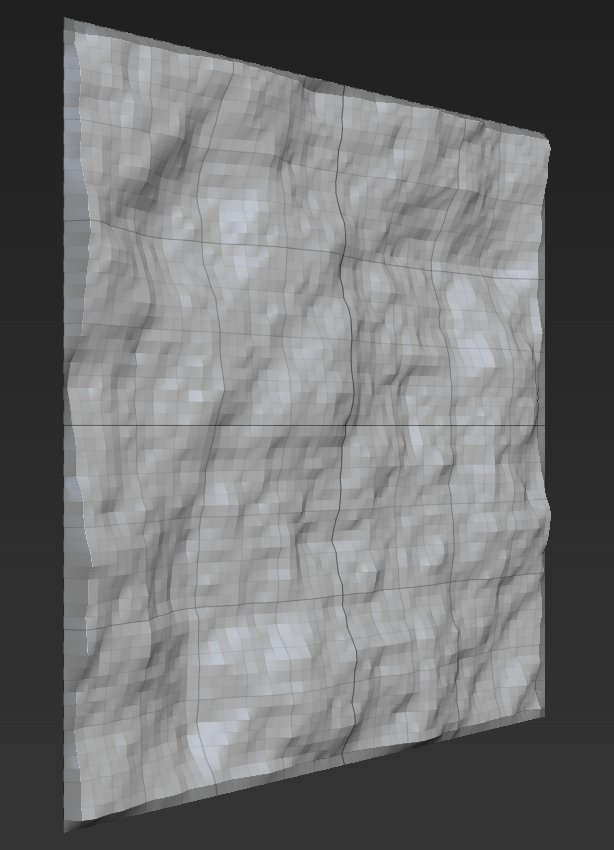
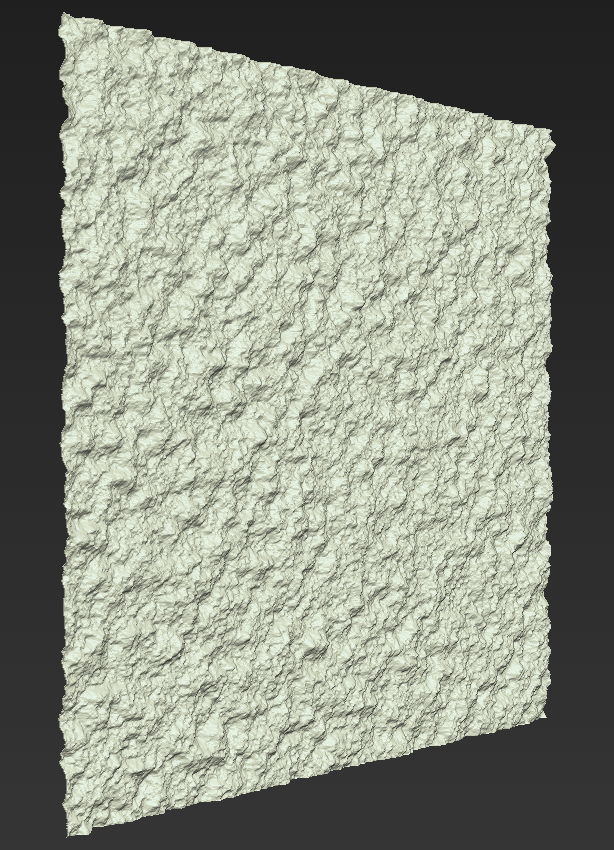
Changed page

diff --git a/05.html b/05.html
@@ -13,12 +13,27 @@
 				<a href="contact.html">Contact</a>
 			</div>
 			<div class="textbox">
-				Lorem ipsum dolor sit amet, consectetur adipisicing elit, sed do eiusmod
-				tempor incididunt ut labore et dolore magna aliqua. Ut enim ad minim veniam,
-				quis nostrud exercitation ullamco laboris nisi ut aliquip ex ea commodo
-				consequat. Duis aute irure dolor in reprehenderit in voluptate velit esse
-				cillum dolore eu fugiat nulla pariatur. Excepteur sint occaecat cupidatat non
-				proident, sunt in culpa qui officia deserunt mollit anim id est laborum.
+				In this project I wanted to learn more about game development and rendering in
+				Unity. I wanted to learn the process of modeling and texturing with software used
+				in the game industry. On top of that I also wanted to gain more experience in
+				building game levels with the features that an advanced game engine can offer.
+			</div>
+			<div class="textbox">
+				The full project was done in a group of 6 people. It represents a virtual reality
+				game called <a href="https://agigroup8.github.io/">Light In The Dark</a> where you
+				need to defend yourself and hold your ground in a dark mysterious mine. It was
+				implemented with C# and Unity. All of the work that I show on this page represents
+				my own independent work.
+			</div>
+			<div class="textbox">
+				First I wanted to explore some of the industry-standard software for modeling and
+				texturing. After searching I decided to explore Maya, ZBrush and Substance 3D
+				Painter. My primary focus was to learn the basics and to understand the workflow.
+				In Maya I learned some of the basic tools for modeling and UV-mapping. In ZBrush I
+				learned to use different brushes combined with masking and subdivision. In
+				Substance 3D Painter I learned to use material channels, noise textures and decal
+				projections. The resulting output from this initial task was not intended to be
+				used in the actual project but rather as a showcase of my learning:
 			</div>
 			<div class="image-layout">
 				<a href="images/05-01.png" style="grid-area: 1 / 1 / 5 /  6;"><img src="images/05-01.png"></a>
@@ -26,25 +41,29 @@
 				<a href="images/05-03.png" style="grid-area: 1 / 9 / 5 / 13;"><img src="images/05-03.png"></a>
 			</div>
 			<div class="textbox">
-				Lorem ipsum dolor sit amet, consectetur adipisicing elit, sed do eiusmod
-				tempor incididunt ut labore et dolore magna aliqua. Ut enim ad minim veniam,
-				quis nostrud exercitation ullamco laboris nisi ut aliquip ex ea commodo
-				consequat. Duis aute irure dolor in reprehenderit in voluptate velit esse
-				cillum dolore eu fugiat nulla pariatur. Excepteur sint occaecat cupidatat non
-				proident, sunt in culpa qui officia deserunt mollit anim id est laborum.
-			</div>
-			<div class="image-layout">
-				<a href="images/05-04.png" style="grid-area: 1 / 1 / 5 /  5;"><img src="images/05-04.png"></a>
-				<a href="images/05-05.png" style="grid-area: 1 / 5 / 5 /  9;"><img src="images/05-05.png"></a>
-				<a href="images/05-06.png" style="grid-area: 1 / 9 / 5 / 13;"><img src="images/05-06.png"></a>
+				My next task was to create the game level which was supposed to represent a dark
+				underground mine.
 			</div>
 			<div class="textbox">
-				Lorem ipsum dolor sit amet, consectetur adipisicing elit, sed do eiusmod
-				tempor incididunt ut labore et dolore magna aliqua. Ut enim ad minim veniam,
-				quis nostrud exercitation ullamco laboris nisi ut aliquip ex ea commodo
-				consequat. Duis aute irure dolor in reprehenderit in voluptate velit esse
-				cillum dolore eu fugiat nulla pariatur. Excepteur sint occaecat cupidatat non
-				proident, sunt in culpa qui officia deserunt mollit anim id est laborum.
+				I needed some game objects that could be placed in the underground environment in
+				order to make it feel more interesting. In addition to that I also wanted some
+				natural way of visualizing the available playing area for the player in virtual
+				reality. Based on that I decided to create a modular mine railway system consisting
+				of a turning platform together with one straight rail segment and one curved rail
+				segment.
+			</div>
+			<div class="textbox">
+				The modeling was done in Maya where I tried to balance the detail level with the
+				polygon count:
+			</div>
+			<div class="image-layout">
+				<a href="images/05-04.png" style="grid-area: 1 / 1 / 9 /  9;"><img src="images/05-04.png"></a>
+				<a href="images/05-05.png" style="grid-area: 1 / 9 / 5 / 13;"><img src="images/05-05.png"></a>
+				<a href="images/05-06.png" style="grid-area: 5 / 9 / 9 / 13;"><img src="images/05-06.png"></a>
+			</div>
+			<div class="textbox">
+				The UV-mapping was done in Maya where I tried to minimize texture distortions and
+				hide seams:
 			</div>
 			<div class="image-layout">
 				<a href="images/05-07.png" style="grid-area: 1 / 1 / 5 /  5;"><img src="images/05-07.png"></a>
@@ -52,88 +71,90 @@
 				<a href="images/05-09.png" style="grid-area: 1 / 9 / 5 / 13;"><img src="images/05-09.png"></a>
 			</div>
 			<div class="textbox">
-				Lorem ipsum dolor sit amet, consectetur adipisicing elit, sed do eiusmod
-				tempor incididunt ut labore et dolore magna aliqua. Ut enim ad minim veniam,
-				quis nostrud exercitation ullamco laboris nisi ut aliquip ex ea commodo
-				consequat. Duis aute irure dolor in reprehenderit in voluptate velit esse
-				cillum dolore eu fugiat nulla pariatur. Excepteur sint occaecat cupidatat non
-				proident, sunt in culpa qui officia deserunt mollit anim id est laborum.
+				The texturing was done in Substance 3D Painter where I tried to add a lot of
+				interesting details:
 			</div>
 			<div class="image-layout">
-				<a href="images/05-10.png" style="grid-area: 1 / 1 / 5 /  5;"><img src="images/05-10.png"></a>
-				<a href="images/05-11.png" style="grid-area: 1 / 5 / 5 /  9;"><img src="images/05-11.png"></a>
-				<a href="images/05-12.png" style="grid-area: 1 / 9 / 5 / 13;"><img src="images/05-12.png"></a>
+				<a href="images/05-10.png" style="grid-area: 1 / 1 / 9 /  9;"><img src="images/05-10.png"></a>
+				<a href="images/05-11.png" style="grid-area: 1 / 9 / 5 / 13;"><img src="images/05-11.png"></a>
+				<a href="images/05-12.png" style="grid-area: 5 / 9 / 9 / 13;"><img src="images/05-12.png"></a>
 			</div>
 			<div class="textbox">
-				Lorem ipsum dolor sit amet, consectetur adipisicing elit, sed do eiusmod
-				tempor incididunt ut labore et dolore magna aliqua. Ut enim ad minim veniam,
-				quis nostrud exercitation ullamco laboris nisi ut aliquip ex ea commodo
-				consequat. Duis aute irure dolor in reprehenderit in voluptate velit esse
-				cillum dolore eu fugiat nulla pariatur. Excepteur sint occaecat cupidatat non
-				proident, sunt in culpa qui officia deserunt mollit anim id est laborum.
+				I also needed to create the actual mine and I decided to do this with individual
+				rock panels for the walls and roof which could then be combined into an enclosed
+				mine directly in Unity. I created these panels in ZBrush by using procedural
+				surface noise to displace the points on a high resolution plane. Then I used
+				Decimation Master to reduce the polygon count followed by UV Master to
+				automatically generate UV coordinates.
+			</div>
+			<div class="textbox">
+				The first image represents the wall panel while the second image represents the
+				roof panel:
 			</div>
 			<div class="image-layout">
-				<a href="images/05-13.png" style="grid-area: 1 / 1 / 6 / 13;"><img src="images/05-13.png"></a>
+				<a href="images/05-13.png" style="grid-area: 1 / 1 / 7 /  7;"><img src="images/05-13.png"></a>
+				<a href="images/05-14.png" style="grid-area: 1 / 7 / 7 / 13;"><img src="images/05-14.png"></a>
 			</div>
 			<div class="textbox">
-				Lorem ipsum dolor sit amet, consectetur adipisicing elit, sed do eiusmod
-				tempor incididunt ut labore et dolore magna aliqua. Ut enim ad minim veniam,
-				quis nostrud exercitation ullamco laboris nisi ut aliquip ex ea commodo
-				consequat. Duis aute irure dolor in reprehenderit in voluptate velit esse
-				cillum dolore eu fugiat nulla pariatur. Excepteur sint occaecat cupidatat non
-				proident, sunt in culpa qui officia deserunt mollit anim id est laborum.
+				I also wanted to make the game level feel larger and more mysterious. To achieve
+				that I only used dynamic light sources without any static light sources. In
+				addition to that I also decided to add railway tunnels in each direction of the
+				mine. This would also make light effects more interesting since light sources could
+				travel into the tunnels. To mask the panel edges at tunnel entries I decided to
+				create a wooden support structure.
+			</div>
+			<div class="textbox">
+				The modeling and UV-mapping was done in Maya while the texturing was done in
+				Substance 3D Painter:
 			</div>
 			<div class="image-layout">
-				<a href="images/05-14.png" style="grid-area: 1 / 1 / 7 /  7;"><img src="images/05-14.png"></a>
-				<a href="images/05-15.png" style="grid-area: 1 / 7 / 7 / 13;"><img src="images/05-15.png"></a>
+				<a href="images/05-15.png" style="grid-area: 1 / 1 / 5 /  5;"><img src="images/05-15.png"></a>
+				<a href="images/05-16.png" style="grid-area: 1 / 5 / 5 /  9;"><img src="images/05-16.png"></a>
+				<a href="images/05-17.png" style="grid-area: 1 / 9 / 5 / 13;"><img src="images/05-17.png"></a>
 			</div>
 			<div class="textbox">
-				Lorem ipsum dolor sit amet, consectetur adipisicing elit, sed do eiusmod
-				tempor incididunt ut labore et dolore magna aliqua. Ut enim ad minim veniam,
-				quis nostrud exercitation ullamco laboris nisi ut aliquip ex ea commodo
-				consequat. Duis aute irure dolor in reprehenderit in voluptate velit esse
-				cillum dolore eu fugiat nulla pariatur. Excepteur sint occaecat cupidatat non
-				proident, sunt in culpa qui officia deserunt mollit anim id est laborum.
-			</div>
-			<div class="image-layout">
-				<a href="images/05-16.png" style="grid-area: 1 / 1 / 7 /  7;"><img src="images/05-16.png"></a>
-				<a href="images/05-17.png" style="grid-area: 1 / 7 / 7 / 13;"><img src="images/05-17.png"></a>
-			</div>
-			<div class="textbox">
-				Lorem ipsum dolor sit amet, consectetur adipisicing elit, sed do eiusmod
-				tempor incididunt ut labore et dolore magna aliqua. Ut enim ad minim veniam,
-				quis nostrud exercitation ullamco laboris nisi ut aliquip ex ea commodo
-				consequat. Duis aute irure dolor in reprehenderit in voluptate velit esse
-				cillum dolore eu fugiat nulla pariatur. Excepteur sint occaecat cupidatat non
-				proident, sunt in culpa qui officia deserunt mollit anim id est laborum.
+				I used the wall panel and the wooden support structure to build two larger wall
+				modules. Both of the two wall modules were built as prefabs directly in Unity and
+				the idea was to interleave the modules in order to obtain the circular shape of the
+				mine. The first wall module represents one quadrant of the circular shape while the
+				second wall module represents the intersecting railway tunnel entry between each
+				quadrant:
 			</div>
 			<div class="image-layout">
 				<a href="images/05-18.png" style="grid-area: 1 / 1 / 5 /  9;"><img src="images/05-18.png"></a>
 				<a href="images/05-19.png" style="grid-area: 1 / 9 / 5 / 13;"><img src="images/05-19.png"></a>
 			</div>
 			<div class="textbox">
-				Lorem ipsum dolor sit amet, consectetur adipisicing elit, sed do eiusmod
-				tempor incididunt ut labore et dolore magna aliqua. Ut enim ad minim veniam,
-				quis nostrud exercitation ullamco laboris nisi ut aliquip ex ea commodo
-				consequat. Duis aute irure dolor in reprehenderit in voluptate velit esse
-				cillum dolore eu fugiat nulla pariatur. Excepteur sint occaecat cupidatat non
-				proident, sunt in culpa qui officia deserunt mollit anim id est laborum.
+				With all the individual parts ready I continued my task on building the game level.
+				I created a flat terrain and then removed the default ambient and directional light
+				in the scene. The platform was placed at the center of the scene and combined with
+				the other rail segments into a larger rail system. After that I also combined the
+				different wall modules into an enclosed circular mine and placed the large roof
+				panel on top.
+			</div>
+			<div class="textbox">
+				My final task was to improve the visual quality of the level by adjusting the
+				rendering settings in Unity. I did this by adding x8 multisample anti-aliasing
+				together with real-time soft shadows. I also adjusted the settings for the
+				various light sources and tweaked the ranges for the cascaded shadow maps. The
+				first image shows the rendering before the changes and the second image shows the
+				rendering after the changes:
 			</div>
 			<div class="image-layout">
 				<a href="images/05-20.png" style="grid-area: 1 / 1 / 7 /  7;"><img src="images/05-20.png"></a>
 				<a href="images/05-21.png" style="grid-area: 1 / 7 / 7 / 13;"><img src="images/05-21.png"></a>
 			</div>
 			<div class="textbox">
-				Lorem ipsum dolor sit amet, consectetur adipisicing elit, sed do eiusmod
-				tempor incididunt ut labore et dolore magna aliqua. Ut enim ad minim veniam,
-				quis nostrud exercitation ullamco laboris nisi ut aliquip ex ea commodo
-				consequat. Duis aute irure dolor in reprehenderit in voluptate velit esse
-				cillum dolore eu fugiat nulla pariatur. Excepteur sint occaecat cupidatat non
-				proident, sunt in culpa qui officia deserunt mollit anim id est laborum.
+				This is the final result of the game level showing the player area and one of the
+				tunnel entries:
 			</div>
 			<div class="image-layout">
 				<a href="images/05-22.png" style="grid-area: 1 / 1 /  7 / 13;"><img src="images/05-22.png"></a>
 				<a href="images/05-23.png" style="grid-area: 7 / 1 / 13 / 13;"><img src="images/05-23.png"></a>
+			</div>
+			<div class="textbox">
+				You can find the project website <a href="https://agigroup8.github.io/">here</a>
+				which also contains a video of the complete game.
 			</div>
 		</div>
 	</body>
